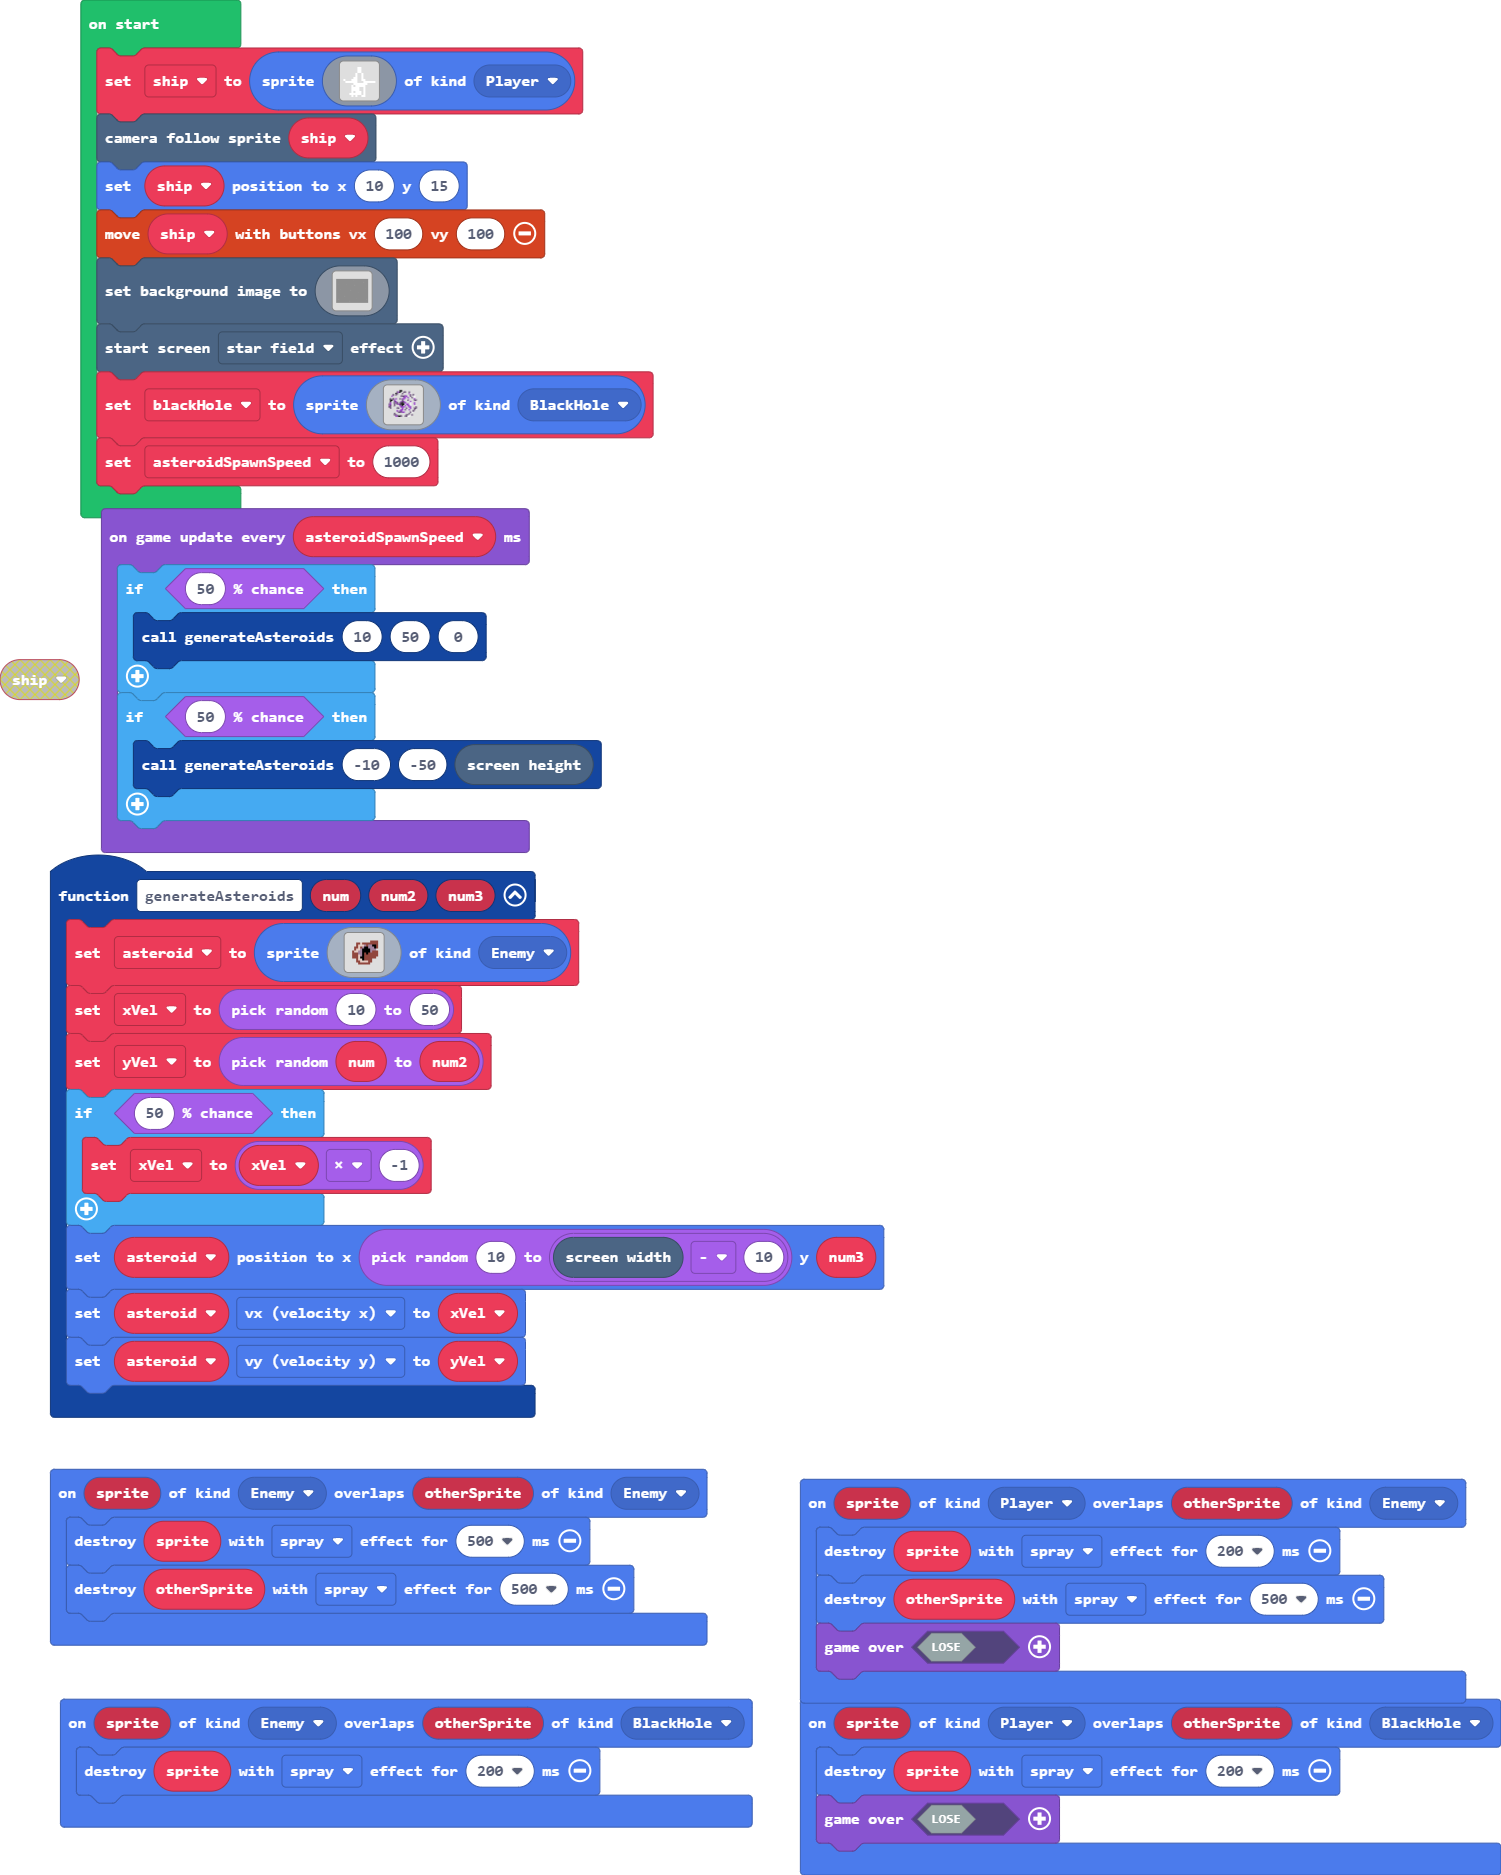
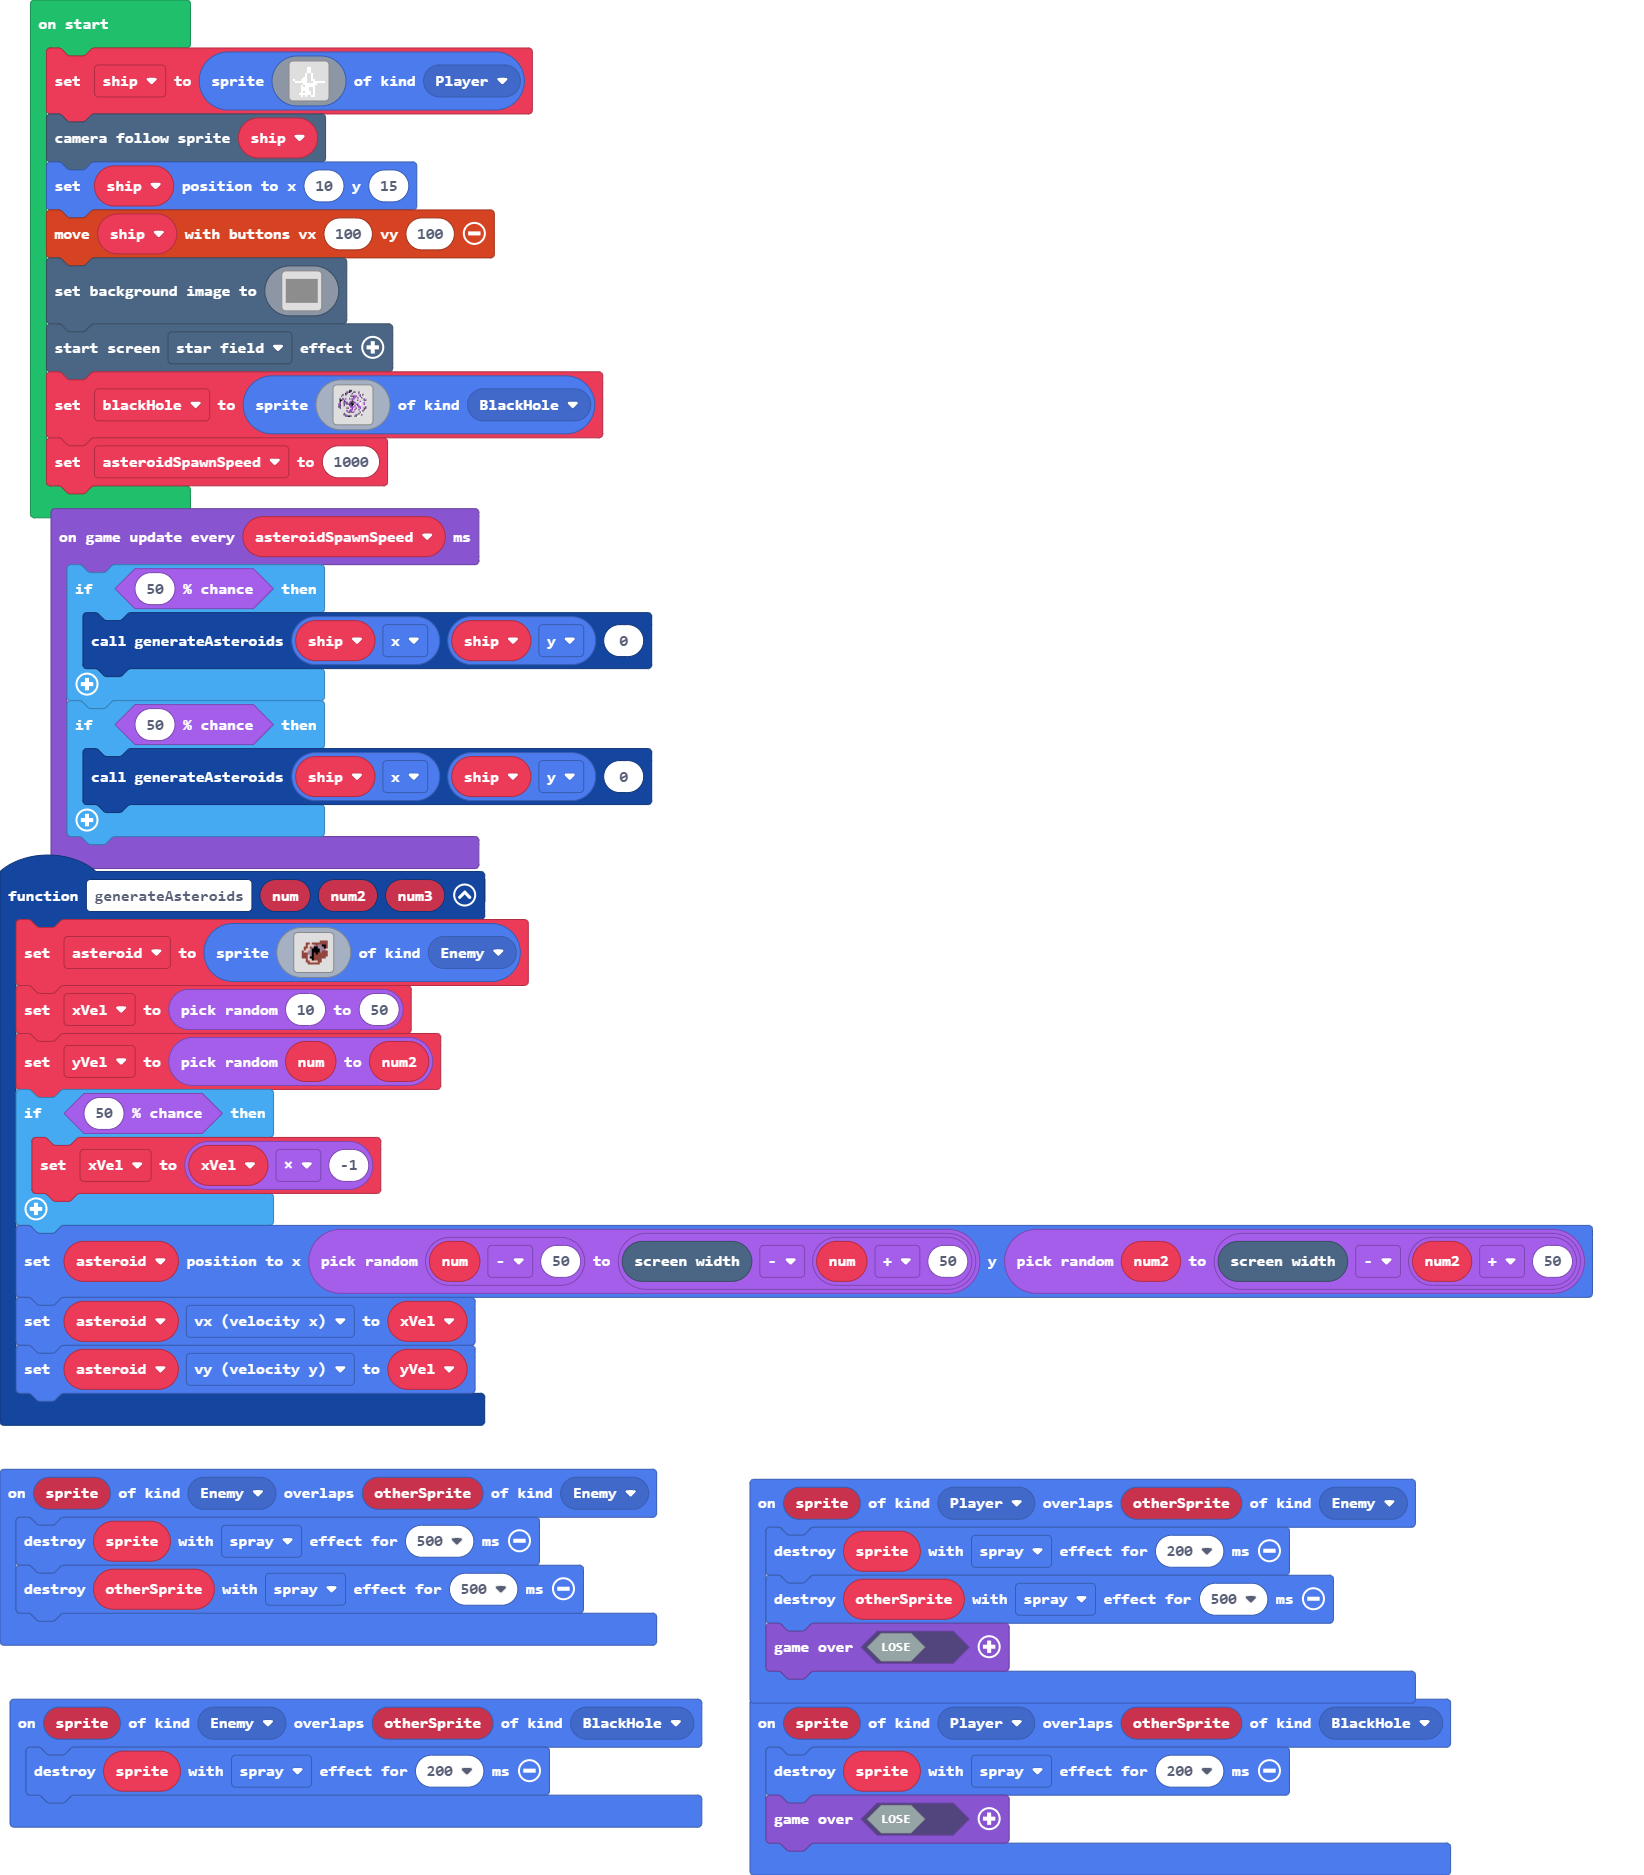
Update main.blocks, main.ts

Changed region(s): [[0.0, 0.0, 1.0, 1.0]]

diff --git a/main.ts b/main.ts
@@ -37,7 +37,7 @@ function generateAsteroids (num: number, num2: number, num3: number) {
     if (Math.percentChance(50)) {
         xVel = xVel * -1
     }
-    asteroid.setPosition(randint(10, scene.screenWidth() - 10), num3)
+    asteroid.setPosition(randint(num - 50, scene.screenWidth() - (num + 50)), randint(num2, scene.screenWidth() - (num2 + 50)))
     asteroid.vx = xVel
     asteroid.vy = yVel
 }
@@ -226,9 +226,9 @@ let blackHole = sprites.create(img`
 let asteroidSpawnSpeed = 1000
 game.onUpdateInterval(asteroidSpawnSpeed, function () {
     if (Math.percentChance(50)) {
-        generateAsteroids(10, 50, 0)
+        generateAsteroids(ship.x, ship.y, 0)
     }
     if (Math.percentChance(50)) {
-        generateAsteroids(-10, -50, scene.screenHeight())
+        generateAsteroids(ship.x, ship.y, 0)
     }
 })
